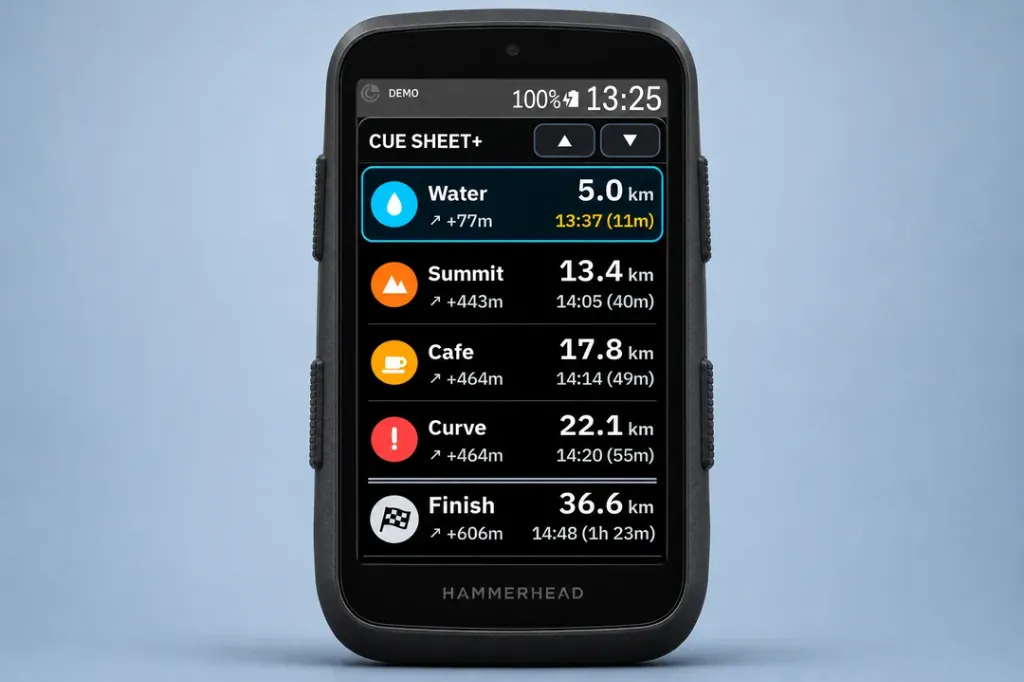
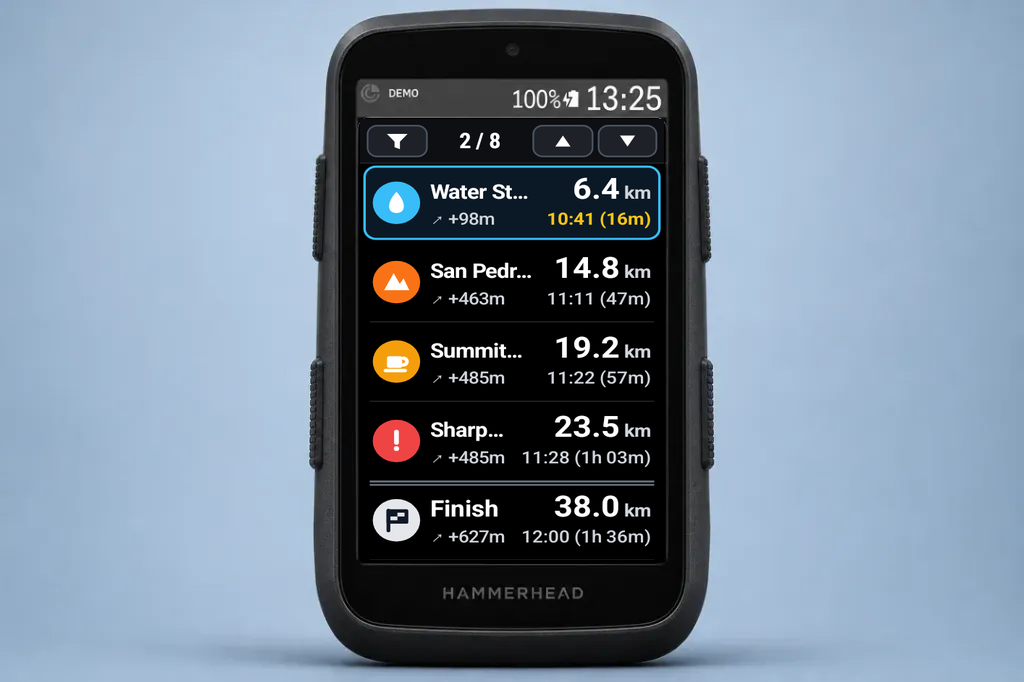
docs: update screenshots with POI category filter and 3 ETA format modes

Changed region(s): [[0.3438, 0.154, 0.6562, 0.8006]]

diff --git a/README.md b/README.md
@@ -17,9 +17,15 @@ Designed to bring the Garmin Course Points list experience to Karoo with clean h
 </p>
 
 <p align="center">
-  <img src="assets/screenshot-cuesheet-list.png" width="48%" alt="Full-Page Cue Sheet View"/>
+  <img src="assets/screenshot-cuesheet-list.png" width="32%" alt="Full-Page Cue Sheet View"/>
   &nbsp;
-  <img src="assets/screenshot-cuesheet-detail.png" width="48%" alt="Waypoint Detail with Elevation Sparkline"/>
+  <img src="assets/screenshot-cuesheet-filter.png" width="32%" alt="Interactive Route POI Category Filter"/>
+  &nbsp;
+  <img src="assets/screenshot-cuesheet-detail.png" width="32%" alt="Waypoint Detail with Elevation Sparkline"/>
+</p>
+
+<p align="center">
+  <img src="assets/screenshot-eta-formats.png" width="760" alt="ETA and Remaining Time Formats Comparison"/>
 </p>
 
 ---
@@ -27,11 +33,15 @@ Designed to bring the Garmin Course Points list experience to Karoo with clean h
 ## Features
 
 - **Full-Page View (480×800):**
-  - High-visibility 5-row window with large typography.
+  - High-visibility 5-row window with large typography and a centered POI counter.
   - Auto-follows your ride progression, showing upcoming Waypoints, POIs, and Summits while cleanly marking passed points.
   - Auto-pins the route Finish point at the bottom row.
+  - **Interactive POI Category Filter:** Tap the top-left filter button to toggle categories present on the current route (e.g. show only Water / Rest Stops while keeping Finish).
   - Supports manual scrolling (touch ▲ / ▼ buttons) with auto-return timeout.
   - Interactive touch on any row displays a full-screen Detail Card with an elevation sparkline profile, distance to go, elevation gain/loss, and gradient-aware ETA.
+- **Configurable Time / ETA Formats & Auto Day/Night Theme:**
+  - Switch between **ETA + Time** (`10:41 (16m)`), **Hours & Min** (`1h 36m`), or **Minutes Only** (`96m`) — the remaining-time-only modes render in a larger bold font for instant legibility.
+  - Automatically switches between Light and Dark themes following Karoo OS Day/Night mode (or force Day/Night manually).
 - **Adaptive Shared-Page Rendering:**
   - **Half-Page View (full width):** Automatically switches to a simplified 2–3 row layout with larger, legible typography when sharing a data page.
   - **Compact / Single-Field Fallback:** Narrow or single-row cells automatically fall back to the compact Next Waypoint layout.
